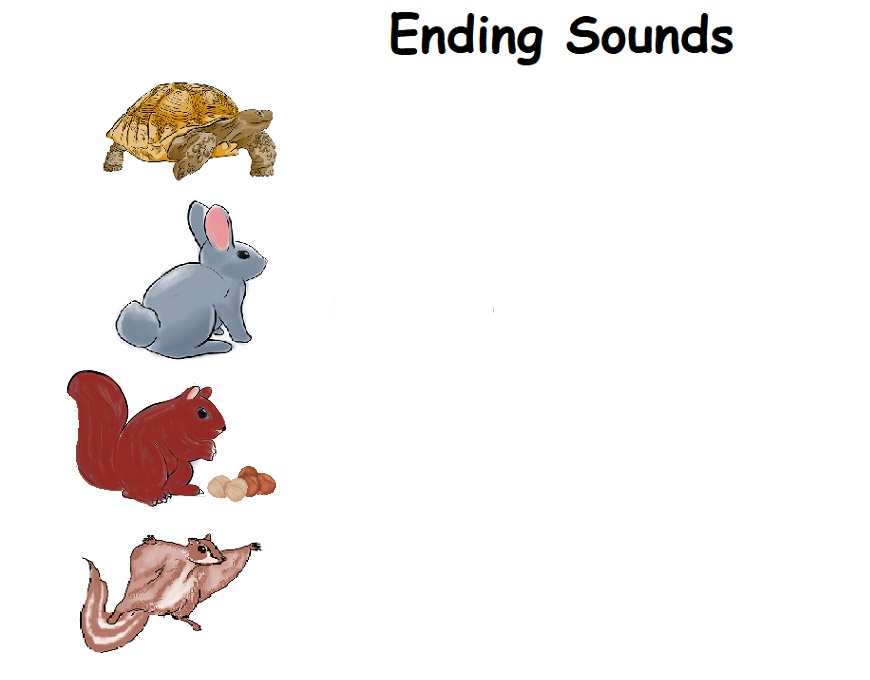
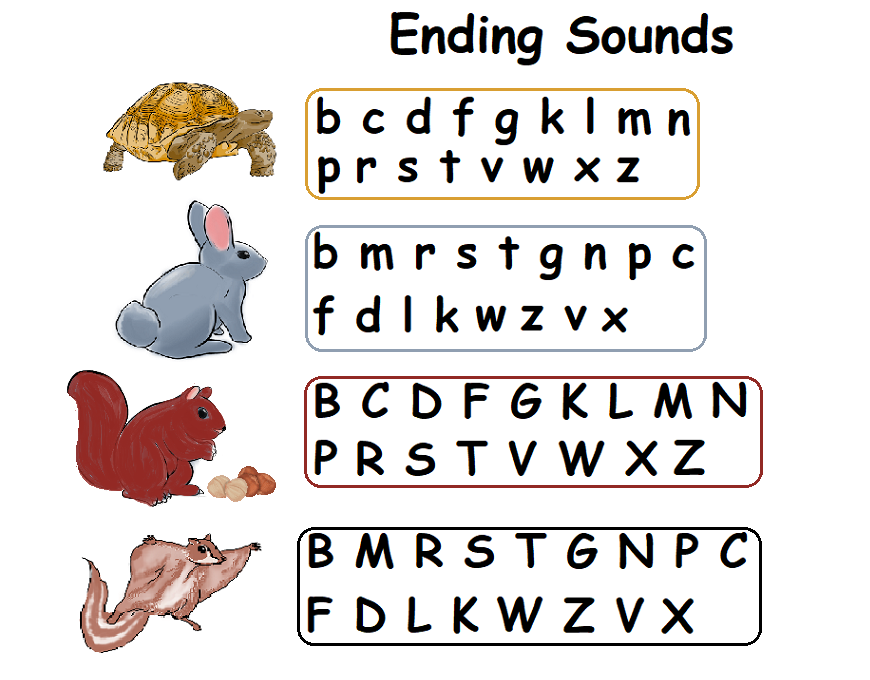
update (menu) -k ending sounds

diff --git a/src/app/pages/k-categories/k-ending-sounds-details/k-ending-sounds-details.component.css b/src/app/pages/k-categories/k-ending-sounds-details/k-ending-sounds-details.component.css
@@ -1,49 +1,37 @@
 #main-body {
     width: 169.7vh;
     height: 0vh;
-    padding-left: 40vh;
+    padding-left: 23vh;
     position: relative;
   }
   
   #background {
       background-color: #FFFFFF !important;
       background: url('../../../../assets/img/backgrounds/k_ending_sounds.png') no-repeat scroll transparent;
-      background-position: center top;
-      background-size: 127vh;
+      background-position: 23vh top;
+      background-size: auto 100vh;
   }
   
   /* Pre-K Categories */
   #lowercase_alphabetical {
-      background: url('../../../../assets/img/buttons/k_ending_sounds_alphabetical.png') no-repeat scroll transparent;
-      background-position: center;
-      background-size: 60vh;
       cursor: pointer;
-      width: 60vh;
+      width: 90vh;
       height: 15vh;
       margin-top: 0.5vh;
   }
   #lowercase_bmras {
-    background: url('../../../../assets/img/buttons/k_ending_sounds_bmras.png') no-repeat scroll transparent;
-    background-position: center;
-    background-size: 65vh;
     cursor: pointer;
-    width: 65vh;
-    height: 16vh;
+    width: 90vh;
+    height: 18vh;
   }
   #uppercase_alphabetical {
-    background: url('../../../../assets/img/buttons/k_ending_sounds_capital_alphabetical.png') no-repeat scroll transparent;
-    background-position: center;
-    background-size: 75vh;
     cursor: pointer;
-    width: 75vh;
+    width: 100vh;
     height: 18vh;
   }
   #uppercase_bmras {
-    background: url('../../../../assets/img/buttons/k_ending_sounds_capital_bmras.png') no-repeat scroll transparent;
-    background-position: center;
-    background-size: 75vh;
     cursor: pointer;
-    width: 75vh;
+    width: 100vh;
     height: 18vh;
   }
 
@@ -52,7 +40,8 @@
   }
 
   .category_button {
-      margin: 5vh 0vh 0vh 41vh;
+      margin: 5vh 0vh 0vh 13vh;
       border: none;
       display: inherit;
+      background-color: transparent;
   }
